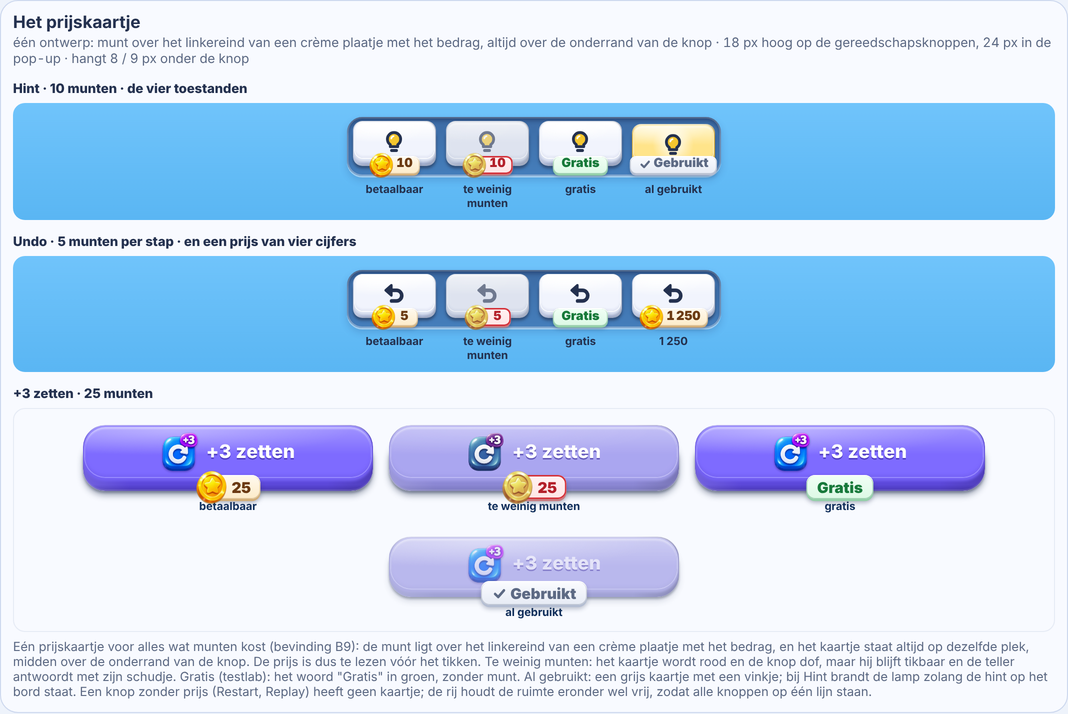
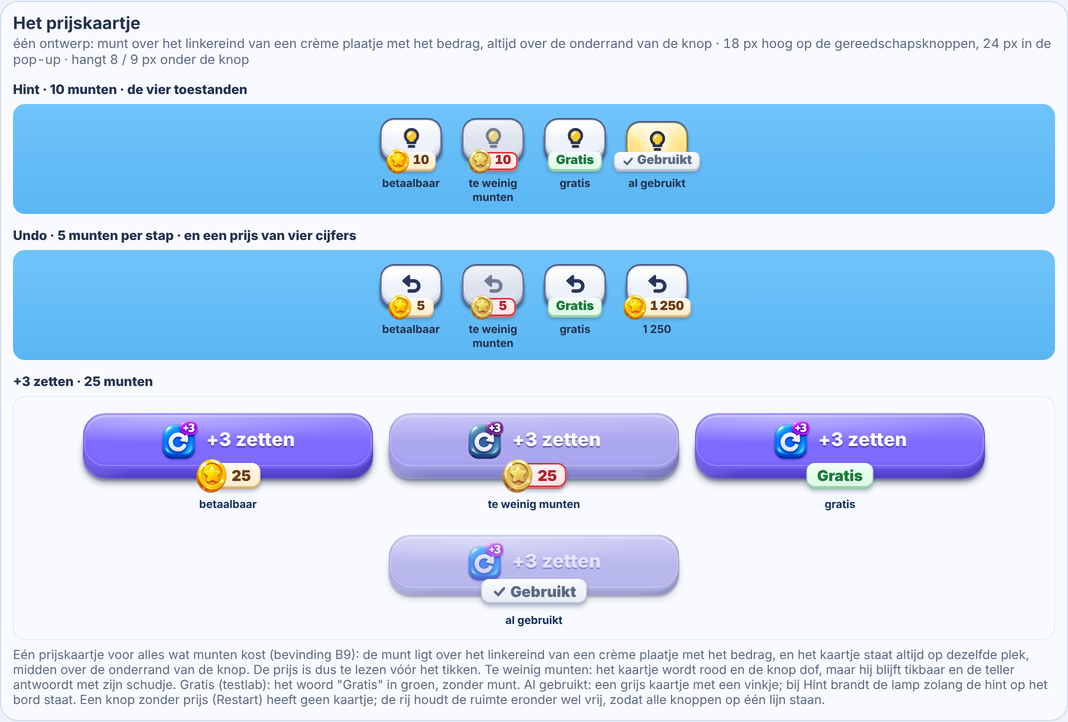
feat: free-standing compact tools with a neutral look of their own (finding B9)
On the owner's feedback the tools tray is gone. Undo, Restart and Hint are
now small blocks that each stand on their own, centred above the command
row with a clear gap: a light face in a slate rim, rounder than the command
buttons. Size, corner and spacing are in data/parts.json (buttons.tools);
the tray and labels switches are removed. The price tag is unchanged.

Play zone unchanged: 361.7 / 603.5 / 679.5 / 767.9 CSS px at 320x568,
390x844, 430x932, 768x1024.

Finding: B9 (production/findings.md)
Evidence: production/qa/evidence/findings-bottom-buttons/B9-loose-*

Claude-Session: https://claude.ai/code/session_01PBSmYtD2jx8mxAakiG6F2L

Changed region(s): [[0.0, 0.1541, 0.9888, 0.8627], [0.0, 0.8936, 0.9579, 0.986], [0.0, 0.0, 0.2472, 0.0924]]

diff --git a/src/parts/main.ts b/src/parts/main.ts
@@ -322,22 +322,22 @@ for (const [cols, rows] of [[5, 5], [6, 6], [8, 8], [4, 7]] as const) {
 
   const TOOLS: ToolName[] = ['Undo', 'Restart', 'Hint'];
   const coins = CONFIG.coins;
-  /** The four tools as the puzzle screen shows them; `state` freezes all four in one state. */
+  /** The tools as the puzzle screen shows them; `state` freezes them all in one state. */
   const tools = (state: State = ''): string[] =>
     TOOLS.map((name) => toolButton(name, { ...(name === 'Undo' ? { cost: coins.undoCost, price: 'ok' as const } : name === 'Hint' ? { cost: coins.hintCost, price: 'ok' as const } : {}), state: state === 'nudge' ? '' : state }));
   const t = b.tools;
   const toolDepth = Math.round(t.height * b.family.depth * 10) / 10;
   const actionRow = (colors: readonly (typeof COLORS)[number][]): string => `<div class="tf-line" style="gap:${p.gap}px">${colors.map((c) => action({ ...p.action, width: (p.stripWidth - 2 * p.padding - (colors.length - 1) * p.gap) / colors.length }, c, c === 'blue' ? 'nudge' : '')).join('')}</div>`;
-  const phone = (id: string, colors: readonly (typeof COLORS)[number][], extra = ''): string => `<div class="tf-phone" id="${id}">
+  const phone = (id: string, colors: readonly (typeof COLORS)[number][]): string => `<div class="tf-phone" id="${id}">
       <div class="tf-board">speelbord</div>
-      <div class="tf-controls tf-family">${toolTray(tools(), extra)}${actionRow(colors)}</div>
+      <div class="tf-controls tf-family">${toolTray(tools())}${actionRow(colors)}</div>
     </div>`;
 
   const el = document.createElement('section');
   el.className = 'card wide';
   el.id = 'buttons';
-  el.innerHTML = `<h2>Knoppen</h2><p class="dims">één familie: diepte = ${b.family.depth} × vlakhoogte, hoek = ${b.family.radius} × vlakhoogte, indrukken ${Math.round(b.pressFraction * 100)}% · gereedschap (Undo, Restart, Hint): drie gelijke blokken, vlak ${t.height} px + ${toolDepth} px diep, in één bak · actie ${b.action.width}×${b.action.height} px, ${b.action.depth} px diep</p>
-  <h3 class="btn-title">Gereedschap · drie gelijke knoppen in één bak</h3>
+  el.innerHTML = `<h2>Knoppen</h2><p class="dims">diepte = ${b.family.depth} × vlakhoogte, indrukken ${Math.round(b.pressFraction * 100)}% · gereedschap (Undo, Restart, Hint): drie gelijke losse blokken van ${t.width}×${t.height} px + ${toolDepth} px diep, hoek ${t.radius} px, ${t.gap} px uit elkaar · actie ${b.action.width}×${b.action.height} px, ${b.action.depth} px diep</p>
+  <h3 class="btn-title">Gereedschap · drie gelijke knoppen, elk op zichzelf</h3>
   <div id="buttons-sheet">${toolTray(tools())}<div class="tf-tools-caption">${TOOLS.map((n) => `<span>${n}</span>`).join('')}</div></div>
   <h3 class="btn-title">Toestanden · gereedschap</h3>
   <div id="buttons-states-utility">
@@ -357,10 +357,7 @@ for (const [cols, rows] of [[5, 5], [6, 6], [8, 8], [4, 7]] as const) {
   <h3 class="btn-title">Telefoon ${p.stripWidth} px · vier opdrachten en twee opdrachten</h3>
   ${phone('buttons-phone', COLORS)}
   ${phone('buttons-phone-two', ['red', 'forward'])}
-  <h3 class="btn-title">Omkeerbare keuzes (data/parts.json → buttons.tools)</h3>
-  ${phone('buttons-phone-labels', COLORS, ' labels')}<div class="tf-tools-caption wide"><span>"labels": true · namen in de knop</span></div>
-  ${phone('buttons-phone-notray', COLORS, ' no-tray')}<div class="tf-tools-caption wide"><span>"tray": false · zonder bak</span></div>
-  <p class="note">Echte HTML-knoppen met CSS: tekst blijft tekst, maten komen uit <code>--w --h --d --r</code>. Elke knop is één gegoten blok met een bovenvlak, een ronde rand en schuine flanken: bij indrukken zakt het hele blok ${Math.round(b.pressFraction * 100)}% van de diepte weg; de voetafdruk en het raakvlak blijven gelijk. De gereedschapsknoppen en de actieknoppen zijn dezelfde bouw op twee maten en staan op hetzelfde raster: de buitenranden van de bak-knoppen liggen gelijk met die van de actieknoppen. Gereedschap toont alleen een pictogram; de naam is er voor schermlezers. Een prijs staat op het ene prijskaartje over de onderrand (zie de muntenkaart); een knop zonder prijs (Restart) heeft geen kaartje en staat toch op dezelfde lijn. Blauw toont in de telefoonstroken de nudge.</p>`;
+  <p class="note">Echte HTML-knoppen met CSS: tekst blijft tekst, maten komen uit <code>--w --h --d --r</code>. Elke knop is één gegoten blok met een bovenvlak, een ronde rand en schuine flanken: bij indrukken zakt het hele blok ${Math.round(b.pressFraction * 100)}% van de diepte weg; de voetafdruk en het raakvlak blijven gelijk. De gereedschapsknoppen hebben een eigen, neutrale stijl: klein, ronder dan de actieknoppen, een licht vlak in een leigrijze rand. Ze staan los van elkaar in het midden, met duidelijke ruimte tot de actieknoppen eronder. Gereedschap toont alleen een pictogram; de naam is er voor schermlezers. Een prijs staat op het ene prijskaartje over de onderrand (zie de muntenkaart); een knop zonder prijs (Restart) heeft geen kaartje en staat toch op dezelfde lijn. Blauw toont in de telefoonstroken de nudge.</p>`;
   document.getElementById('sheet')!.appendChild(el);
 }
 

diff --git a/src/ui/tf-buttons.css b/src/ui/tf-buttons.css
@@ -73,27 +73,23 @@
 .tf-hint { --icon: calc(var(--h) * .66); }
 .tf-hint.compact .tf-label { display: none; }
 
-/* The tools of the puzzle screen (finding B9): Undo, Restart and Hint are one block design, standing
-   together in one tray. Same size, depth, radius, material and icon weight; a picture only, with the name for screen
-   readers (`.labels` on the row shows the names instead). A tool with a price carries the price tag over its bottom edge;
-   the row keeps that space free under every tool, priced or not, so they all stand level. Replay is not here: it is on the win pop-up. */
+/* The tools of the puzzle screen (finding B9): Undo, Restart and Hint. Each is a small block of its own, standing free
+   (no shared tray) in a row of its own above the command buttons, and all three are the same: size, depth, corner,
+   material and icon weight. Their look is theirs alone and neutral: a light face set in a slate rim, rounder than the
+   command buttons, so they read as a different kind of button. A picture only, with the name for screen readers. A tool
+   with a price carries the price tag over its bottom edge; the row keeps that space free under every tool, priced or
+   not, so they all stand level. Replay is not here: it is on the win pop-up. */
 .tf-tools {
-  --tool-h: 37px; --tool-gap: 10px; --tray-pad: 6px; --tag-over: 8px;
-  position: relative; display: grid; grid-auto-flow: column; grid-auto-columns: minmax(0, 1fr); gap: var(--tool-gap);
-  margin: 0 calc(var(--tray-pad) * -1); padding: 4px var(--tray-pad) calc(var(--tag-over) + 2px); border-radius: calc(var(--tool-h) * .25 + var(--tray-pad));
-  background: linear-gradient(180deg, rgba(30, 52, 110, .62), rgba(40, 66, 130, .5));
-  box-shadow: inset 0 3px 5px rgba(10, 20, 54, .45), inset 0 0 0 1.5px rgba(255, 255, 255, .34), 0 1.5px 0 rgba(255, 255, 255, .45), 0 4px 8px rgba(24, 46, 110, .2);
+  --tool-h: 37px; --tool-w: 62px; --tool-r: 14px; --tool-gap: 20px; --tag-over: 8px;
+  position: relative; display: flex; justify-content: center; gap: var(--tool-gap); padding-bottom: var(--tag-over);
 }
-.tf-tools.no-tray { background: none; box-shadow: none; }
-.tf-tools .tf-btn { --w: 100%; --h: var(--tool-h); --d: calc(var(--h) * var(--tf-depth, .2)); --r: calc(var(--h) * var(--tf-round, .25)); --press-fraction: .8; --icon: calc(var(--h) * .65); }
-/* A slightly deeper wall than the white blocks elsewhere, so the low block still shows its depth. */
-.tf-tools .tf-utility { --c-side: #b3bedb; --c-deep: #8c9abd; }
-/* On the dark tray the white block needs no dark outline: it takes the family's own edge, like the command buttons. */
-.tf-tools:not(.no-tray) .tf-utility .tf-face { box-shadow: inset 0 -1.5px 1px rgba(255, 255, 255, .18), inset 0 0 0 1px rgba(0, 0, 0, .06); }
+.tf-tools .tf-btn { --w: var(--tool-w); --h: var(--tool-h); --d: calc(var(--h) * var(--tf-depth, .2)); --r: var(--tool-r); --press-fraction: .8; --icon: calc(var(--h) * .62); }
+.tf-tools .tf-utility { --c-top: #ffffff; --c-main: #eef2fa; --c-side: #7483a8; --c-deep: #55648a; --ink-c: #2a3658; --gloss: .9; --cast: rgba(24, 38, 80, .5); }
+/* The slate rim: the block's body shows a little wider round the face than on the other buttons. */
+.tf-tools .tf-utility .tf-face { --side: 3px; --lip: 3px; box-shadow: inset 0 0 0 1.5px rgba(30, 42, 80, .55), inset 0 -1.5px 1px rgba(255, 255, 255, .2);
+  background: linear-gradient(180deg, #8a98ba 0, var(--wall) calc(var(--h) * .5), var(--wall) calc(var(--h) + var(--d) * .55), var(--wall-deep) 100%); }
+.tf-tools .tf-utility .tf-face::before { border-radius: calc(var(--r) - 3px); }
 .tf-tools .tf-label { position: absolute; width: 1px; height: 1px; overflow: hidden; clip-path: inset(50%); white-space: nowrap; }
-.tf-tools.labels .tf-label { position: relative; width: auto; height: auto; overflow: visible; clip-path: none; --fs: clamp(11px, 3.2vw, 13px); }
-.tf-tools.labels .tf-btn { --icon: clamp(13px, 4vw, 16px); }
-.tf-tools.labels .tf-face { gap: 3px; }
 /* Hint while its hint is on the board: the lamp is lit. The block stays half sunk and warm, and its tag says "Used". */
 .tf-tools .tf-btn.showing:disabled {
   --face-top: #fff6cf; --face: #ffe48a; --wall: #d9a92b; --wall-deep: #b98a12; --ink-c: #24314f; --gloss: .5; --cast: rgba(36, 49, 79, .3);

diff --git a/src/parts/coins.ts b/src/parts/coins.ts
@@ -79,7 +79,7 @@ function price(cost: number, state: PriceState, size: { height: number; font: nu
 const slot = (tag: string): string => `<span class="tf-coin-slot">${tag}</span>`;
 
 const path = (d: string, width: number): string => `<path d="${d}" fill="none" stroke="currentColor" stroke-width="${width}" stroke-linecap="round" stroke-linejoin="round"/>`;
-/** The pictures of the four tools, as in the game (index.html). */
+/** The pictures of the tools, as in the game (index.html). */
 export const TOOL_ICONS = {
   Undo: `<path d="M9.4 4.2 3.6 9.3l5.8 5.1z" fill="currentColor" stroke="currentColor" stroke-width="2.4" stroke-linejoin="round"/>` + path('M9 9.3h5.4a5.3 5.3 0 0 1 0 10.6H9.6', 3.6),
   Restart: path('M5.6 5.4v13.2', 3.6) + `<path d="M18.6 5.6v12.8L9.8 12z" fill="currentColor" stroke="currentColor" stroke-width="3" stroke-linejoin="round"/>`,
@@ -100,10 +100,10 @@ export function toolButton(name: ToolName, view: ToolView = {}): string {
   const spokenName = view.price ? spoken(name, view.cost ?? 0, view.price) : name;
   return `<button type="button" class="${cls}" aria-label="${spokenName}"${used || view.state === 'disabled' ? ' disabled' : ''}><span class="tf-clip"><span class="tf-face"><svg viewBox="0 0 24 24" aria-hidden="true">${TOOL_ICONS[name]}</svg><span class="tf-label">${name}</span></span></span>${view.price ? slot(price(view.cost ?? 0, view.price, C.priceSmall)) : ''}</button>`;
 }
-/** The tray the tools stand in, as wide as the tools row of a 390 px phone unless `width` says otherwise. */
-export function toolTray(buttons: readonly string[], extra = '', width: number = parts.buttons.phone.stripWidth - 2 * parts.buttons.phone.padding): string {
+/** A row of tools as the puzzle screen sets them: each on its own, centred, with the game's gap. */
+export function toolTray(buttons: readonly string[]): string {
   const t = parts.buttons.tools;
-  return `<div class="tf-tools${extra}" style="--tool-h:${t.height}px;--tool-gap:${t.gap}px;width:${width + 12}px">${buttons.join('')}</div>`;
+  return `<div class="tf-tools" style="--tool-h:${t.height}px;--tool-w:${t.width}px;--tool-r:${t.radius}px;--tool-gap:${t.gap}px">${buttons.join('')}</div>`;
 }
 
 /** What a screen reader says for a priced button. */

diff --git a/src/ui/style.css b/src/ui/style.css
@@ -109,13 +109,13 @@ button:focus-visible { outline: 3px solid var(--ink); outline-offset: 2px; }
 .hint-line.warn { color: #b3541e; }
 .stage { flex: 1; min-height: 0; position: relative; margin: 8px -14px 0; }
 #board { position: absolute; inset: 0; width: 100%; height: 100%; display: block; }
-.controls { display: flex; flex-direction: column; gap: 7px; padding-bottom: 2px; }
-/* The bottom area is one family on one grid (finding B9): the tools tray and the command row share the columns and the
-   gap, and every block here has the same build: depth a fifth of its face, corners a quarter of it. */
+.controls { display: flex; flex-direction: column; gap: 13px; padding-bottom: 2px; }
+/* The bottom area (finding B9): a row of small free-standing tools, a clear gap, then the command row. Every block here
+   has the same depth rule (a fifth of its face); the command buttons' corners are a quarter of their face. */
 .controls .tf-btn { --d: calc(var(--h) * var(--tf-depth, .2)); --r: calc(var(--h) * var(--tf-round, .25)); --press-fraction: .8; }
 @media (max-height: 620px) {
-  .controls { gap: 4.5px; }
-  .controls .tf-tools { --tag-over: 6px; padding-top: 3px; }
+  .controls { gap: 9.5px; }
+  .controls .tf-tools { --tag-over: 6px; }
   .controls .tf-tools .tf-btn { --icon: calc(var(--h) * .56); }
 }
 /* Four action buttons share the width; each stays square until the screen gets too short for that. */

diff --git a/src/ui/hud.ts b/src/ui/hud.ts
@@ -54,14 +54,13 @@ export class Hud {
 
   constructor(handlers: HudHandlers, isLevelOpen: () => boolean) {
     // The bottom area's build (finding B9) comes from data/parts.json: one depth and corner rule for every block,
-    // and whether the tools stand in a tray and show their names.
+    // and the size of a tool and the space between two.
     const family = PARTS.buttons.family;
     const controls = el('tools').parentElement!;
     controls.style.setProperty('--tf-depth', String(family.depth));
     controls.style.setProperty('--tf-round', String(family.radius));
-    el('tools').style.setProperty('--tool-h', `${PARTS.buttons.tools.height}px`);
-    el('tools').classList.toggle('no-tray', !PARTS.buttons.tools.tray);
-    el('tools').classList.toggle('labels', PARTS.buttons.tools.labels);
+    const tools = PARTS.buttons.tools;
+    for (const [name, px] of [['h', tools.height], ['w', tools.width], ['r', tools.radius], ['gap', tools.gap]] as const) el('tools').style.setProperty(`--tool-${name}`, `${px}px`);
     mountPricedButton(el<HTMLButtonElement>('undo'));
     mountPricedButton(el<HTMLButtonElement>('scan'));
     el('card').insertAdjacentHTML('afterbegin', END_DEFS);

diff --git a/src/parts/parts.css b/src/parts/parts.css
@@ -43,8 +43,9 @@ body { margin: 0; background: #eef3fb; color: var(--ink); font-family: ui-rounde
 .card > div > .tf-tools, #buttons-states-utility > .tf-tools { margin: 0 auto; }
 #buttons-sheet, #buttons-states-utility, #coins-price-hint, #coins-price-compact { padding: 14px 0 10px; background: linear-gradient(180deg, #70c4fb, #5ab6f3); border-radius: 12px; }
 #buttons-states-utility > .tf-tools:not(:first-child) { margin-top: 8px; }
-.tf-tools-caption { width: 362px; margin: 6px auto 0; display: grid; grid-auto-flow: column; grid-auto-columns: minmax(0, 1fr); gap: 10px; text-align: center; font-size: 11px; font-weight: 700; color: #24314f; }
-.tf-tools-caption.wide { grid-auto-columns: 1fr; }
+.tf-tools-caption { margin: 6px auto 0; display: flex; justify-content: center; gap: 20px; text-align: center; font-size: 11px; font-weight: 700; color: #24314f; }
+.tf-tools-caption > span { width: 62px; }
+.tf-tools-caption.wide > span { width: auto; }
 
 /* Flockbot cards: the bot at the size it has on the board. */
 .bot-small { display: flex; flex-wrap: wrap; align-items: center; gap: 4px; margin-top: 8px; padding: 6px; border-radius: 12px; background: #eef2fb; }

diff --git a/tests/integration/boot.spec.ts b/tests/integration/boot.spec.ts
@@ -337,9 +337,11 @@ test('the bottom buttons are one set, and every price is the same tag in the sam
   // The tags stay clear of the command row and of the screen.
   const commands = (await page.locator('#commands').boundingBox())!;
   expect(boxes[0].y + boxes[0].height + hang[0]).toBeLessThanOrEqual(commands.y);
-  // The tools tray and the command row share one grid: the outer columns line up.
-  expect(boxes[0].x).toBeCloseTo(commands.x, 0);
-  expect(boxes[2].x + boxes[2].width).toBeCloseTo(commands.x + commands.width, 0);
+  // The tools stand apart from the command row and are compact: clearly narrower than a command button, centred as a group.
+  expect(commands.y - (boxes[0].y + boxes[0].height)).toBeGreaterThanOrEqual(16);
+  const cmd = (await page.locator('.cmd:not([hidden])').first().boundingBox())!;
+  expect(boxes[0].width).toBeLessThan(cmd.width);
+  expect(boxes[0].x - commands.x).toBeCloseTo(commands.x + commands.width - (boxes[2].x + boxes[2].width), 0);
 });
 
 test('Hint: the status is free, the next move costs coins and is drawn on the board, and without coins it is refused', async ({ page }) => {

diff --git a/tests/unit/price-tag.test.ts b/tests/unit/price-tag.test.ts
@@ -73,11 +73,11 @@ describe('the one price tag (finding B9)', () => {
 });
 
 describe('the bottom buttons as one family (finding B9)', () => {
-  it('test_parts_family_givesOneDepthAndCornerRuleAndAToolThatIsTallEnoughToTouch', () => {
+  it('test_parts_tools_areLargeEnoughToTouch', () => {
     const { family, tools } = parts.buttons;
     expect(family.depth).toBeGreaterThan(0);
-    expect(family.radius).toBeGreaterThan(0);
     // The footprint (face plus wall) is the touch target: at least 44 CSS px.
     expect(tools.height * (1 + family.depth)).toBeGreaterThanOrEqual(44);
+    expect(tools.width).toBeGreaterThanOrEqual(44);
   });
 });

diff --git a/data/config-notes.md b/data/config-notes.md
@@ -56,10 +56,8 @@ Dimensions of the standalone game elements, in cell units (1 cell = `unitPx` 56 
   - `logo.levels.tileComfort` — the tile height at which the logo starts to grow: the band takes what the screen has left once every tile is this high, up to its maximum; the tiles then share the rest. Higher = bigger tiles and a smaller logo on mid-size phones.
   - `logo.levels.rowMaxHeight` — largest logo height in the `row` layout (never more than 46 on a screen 620 or lower, so the row keeps its height).
   - `logo.intro` — the optional opening moment: `enabled` (off until the owner chooses it), `seconds` for the whole move, `scale` for how much larger the logo starts (1.35 fits a 390 screen). The level selection is already there and tappable underneath; it does not run under reduced motion.
-- `buttons.family` and `buttons.tools` (in `data/parts.json`) — the bottom area of the puzzle screen as one set (finding B9, 2026-11-22; styles `tf-tools` in `src/ui/tf-buttons.css`, layout in `src/ui/style.css`, applied by `src/ui/hud.ts`).
-  - `buttons.family.depth`, `radius` — the one build rule for every block down there, the tools and the command buttons alike: the front wall is `depth` × the face height, the corner `radius` × the face height (0.2 and 0.25, the command buttons' old proportions).
-  - `buttons.tools.height` — face height of a tool (Undo, Restart, Hint; Replay is only on the win pop-up) in CSS pixels. With the wall it is the touch target, so `height × (1 + family.depth)` must stay 44 or more (37 gives 44.4). `gap` is the space between tools on the parts sheet; in the game it is the command row's 10 px, and the outer edges line up with the command row.
-  - `buttons.tools.tray` — `true`: the tools stand in one rounded tray. `false`: no tray, same places.
-  - `buttons.tools.labels` — `false`: a tool shows its picture only (its name is there for screen readers). `true`: the name stands beside the picture, in small type (11 px on a 320 px phone).
-- `coins.price`, `coins.priceSmall` (in `data/parts.json`) — the one price tag (finding B9; `priceTag` in `src/ui/coins.ts`, styles `tf-coin-price` and `tf-coin-slot` in `src/ui/tf-coins.css`): the coin over the left end of a cream plate with the amount, always centred over the bottom edge of its button. `height` and `font` scale it (every other measure follows the height): `priceSmall` on the tools of the puzzle screen, `price` on the "+3 moves" offer and the Undo of the out-of-moves pop-up. `over` records how far it hangs below the button (the CSS `--tag-over`: 8 px in the tools tray, 6 px on a screen lower than 620 px, 9 px in the pop-up). Four states, the same everywhere: affordable (cream), cannot afford (red, the button dull but tappable), free (green word, no coin), already used (grey, a tick).
+- `buttons.family` and `buttons.tools` (in `data/parts.json`) — the bottom area of the puzzle screen (finding B9, 2026-11-22; styles `tf-tools` in `src/ui/tf-buttons.css`, layout in `src/ui/style.css`, applied by `src/ui/hud.ts`).
+  - `buttons.family.depth`, `radius` — the build rule of the blocks down there: the front wall is `depth` × the face height (tools and command buttons alike), the command buttons' corner `radius` × their face height.
+  - `buttons.tools` — the tools (Undo, Restart, Hint; Replay is only on the win pop-up): small blocks that each stand on their own, centred in a row above the command buttons, with a neutral look of their own (light face in a slate rim). `width` and `height` are the face in CSS pixels; with the wall the block is the touch target, so `height × (1 + family.depth)` must stay 44 or more (37 gives 44.4) and `width` 44 or more. `width` 62 also holds a four-digit price tag. `radius` is their own corner (rounder than the command buttons), `gap` the space between two tools. The space down to the command row is the `gap` of `.controls` in `src/ui/style.css` (13 px under the price tag, 9.5 px on a screen lower than 620 px), set so the board keeps its height.
+- `coins.price`, `coins.priceSmall` (in `data/parts.json`) — the one price tag (finding B9; `priceTag` in `src/ui/coins.ts`, styles `tf-coin-price` and `tf-coin-slot` in `src/ui/tf-coins.css`): the coin over the left end of a cream plate with the amount, always centred over the bottom edge of its button. `height` and `font` scale it (every other measure follows the height): `priceSmall` on the tools of the puzzle screen, `price` on the "+3 moves" offer and the Undo of the out-of-moves pop-up. `over` records how far it hangs below the button (the CSS `--tag-over`: 8 px on the tools, 6 px on a screen lower than 620 px, 9 px in the pop-up). Four states, the same everywhere: affordable (cream), cannot afford (red, the button dull but tappable), free (green word, no coin), already used (grey, a tick).
 - `coins.fly` (in `data/parts.json`) — the coins that fly from the win pop-up to the coin counter (finding B6, 2026-11-22; code in `src/ui/coins.ts`, styles `tf-coin-fly` in `src/ui/tf-coins.css`). `count`: how many coins fly, a fixed handful and never more than were earned (6). `size`: a flying coin in CSS pixels; it shrinks to the counter's coin as it lands. `delayMs`: wait after the pop-up appears, so the stars land first. `flightMs`: one coin's flight. `staggerMs`: time between two coins leaving. `scatter`: how far, in pixels, the coins start apart around the pop-up's coin. `bumpMs`: the counter's bump on each landing. `highlightMs`: how long the counter keeps its gold rim after the last landing, and the whole highlight under reduced motion, where nothing flies. The whole flight lasts `delayMs + (count − 1) × staggerMs + flightMs` (about 2 s); it never blocks a button, and any way out of the pop-up ends it at once on the true balance.

diff --git a/production/findings.md b/production/findings.md
@@ -70,4 +70,4 @@ Gezien bij B8, niet aangepast (valt buiten de bevinding): in de simulatie van ro
 
 | Nr | Bevinding (woorden van de eigenaar) | Afgehandeld | Commit | Wat er nu in het spel zit |
 |---|---|---|---|---|
-| B9 | Knoppen onderin allemaal in dezelfde stijl, zodat ze bij elkaar horen. Eenduidige manier van prijs aangeven als dat van toepassing is. Voorbeeld: `design/reference/turnflock/source/buttons-price-reference.jpg` | 2026-11-22 | `d710e3b` (branch `claude/turnflock-bottom-buttons`) | Undo, Restart en Hint zijn drie gelijke witte blokken (zelfde maat, diepte, hoek, pictogramdikte) in één bak boven de opdrachtknoppen, met dezelfde buitenranden en tussenruimte. Replay staat op verzoek van de eigenaar niet meer op het puzzelscherm (hij zit in de pop-up na een gehaald level). Alleen een pictogram; de naam is er voor schermlezers. Restart heeft een eigen pictogram (terug naar het begin), zodat hij niet meer op een draaiknop lijkt. Een prijs staat overal op hetzelfde kaartje: de munt over het linkereind van een crème plaatje met het bedrag, midden over de onderrand van de knop. Vier vaste toestanden: betaalbaar, te weinig munten (rood, knop dof maar tikbaar), gratis (groen woord), al gebruikt (grijs met vinkje; de Hint-lamp brandt zolang de hint op het bord staat). Hetzelfde kaartje staat op "+3 moves" en op Undo in de pop-up "Out of moves". Opdrachtknoppen en gereedschap delen één bouwregel (diepte 0,2 en hoek 0,25 van de vlakhoogte). Het bord verliest geen hoogte. Omkeerbaar in `data/parts.json` → `buttons.tools`: `labels` (namen in de knop) en `tray` (bak). Prijzen, aanbiedingen en regels zijn niet veranderd. Bewijs: `production/qa/evidence/findings-bottom-buttons/`. |
+| B9 | Knoppen onderin allemaal in dezelfde stijl, zodat ze bij elkaar horen. Eenduidige manier van prijs aangeven als dat van toepassing is. Voorbeeld: `design/reference/turnflock/source/buttons-price-reference.jpg` | 2026-11-22 | `d710e3b` (branch `claude/turnflock-bottom-buttons`) | Undo, Restart en Hint zijn drie gelijke, compacte knoppen (zelfde maat, diepte, hoek, pictogramdikte) die elk op zichzelf staan, zonder gezamenlijke bak, in het midden boven de opdrachtknoppen en daar duidelijk los van. Ze hebben een eigen neutrale stijl: een licht vlak in een leigrijze rand, ronder dan de opdrachtknoppen (verfijnd op verzoek van de eigenaar, zelfde dag). Replay staat op verzoek van de eigenaar niet meer op het puzzelscherm (hij zit in de pop-up na een gehaald level). Alleen een pictogram; de naam is er voor schermlezers. Restart heeft een eigen pictogram (terug naar het begin), zodat hij niet meer op een draaiknop lijkt. Een prijs staat overal op hetzelfde kaartje: de munt over het linkereind van een crème plaatje met het bedrag, midden over de onderrand van de knop. Vier vaste toestanden: betaalbaar, te weinig munten (rood, knop dof maar tikbaar), gratis (groen woord), al gebruikt (grijs met vinkje; de Hint-lamp brandt zolang de hint op het bord staat). Hetzelfde kaartje staat op "+3 moves" en op Undo in de pop-up "Out of moves". Het bord verliest geen hoogte. Maat, hoek en tussenruimte staan in `data/parts.json` → `buttons.tools`. Prijzen, aanbiedingen en regels zijn niet veranderd. Bewijs: `production/qa/evidence/findings-bottom-buttons/`. |
